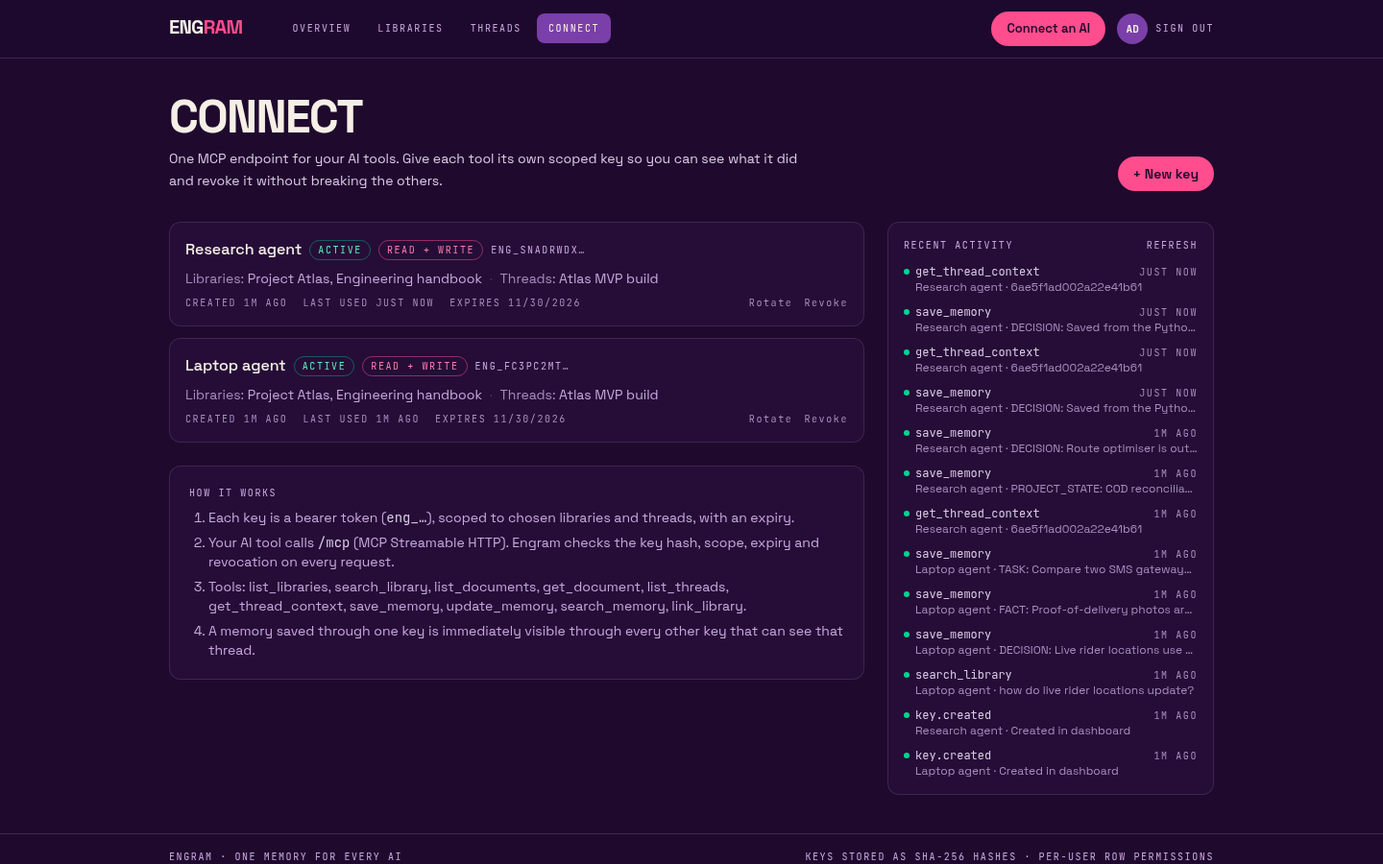
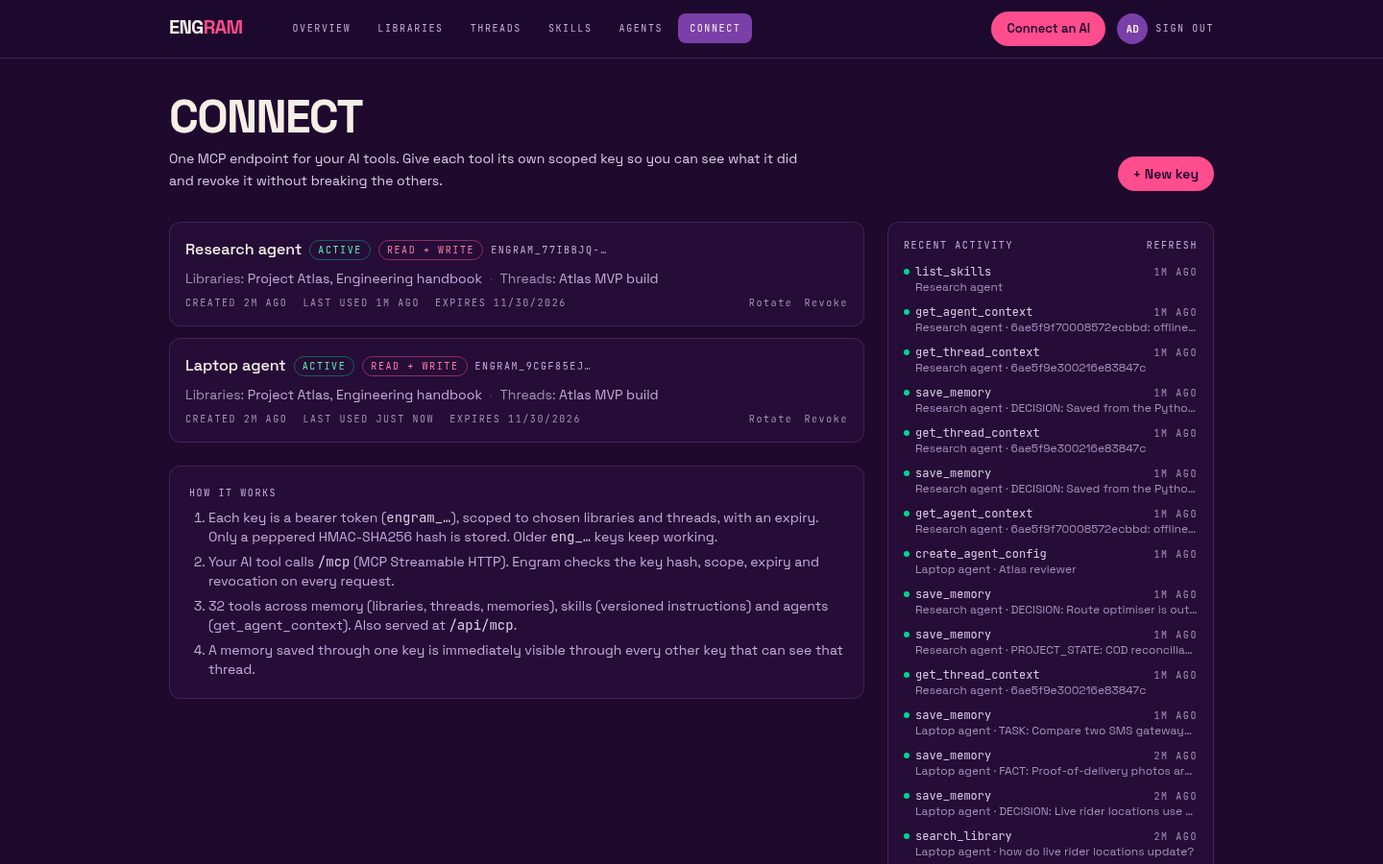
Docs + landing claims for skills/agents; fix wide preview layout; python client agent check; delete-user covers new tables

diff --git a/src/components/AuthScreen.tsx b/src/components/AuthScreen.tsx
@@ -8,9 +8,9 @@ const anchors: Record<string, string> = { Overview: "#top", Libraries: "#feature
 
 const CLIENTS = [
   { name: "Claude Code", ini: "CC", ver: "v2.1.316", what: "Remote HTTP server added with a bearer header. mcp list reports Connected." },
-  { name: "MCP Inspector", ini: "MI", ver: "CLI 2.13.0", what: "Listed tools, resources and prompts; called search_library on production." },
-  { name: "TypeScript SDK", ini: "TS", ver: "sdk 1.32.2", what: "All 10 tools, scopes, revocation and cross-user isolation. 71 checks." },
-  { name: "Python SDK", ini: "PY", ver: "mcp 1.30.0", what: "Initialize, save_memory, get_thread_context, resources and prompts." },
+  { name: "MCP Inspector", ini: "MI", ver: "CLI 2.13.0", what: "Listed tools and called get_agent_context on production." },
+  { name: "TypeScript SDK", ini: "TS", ver: "sdk 1.32.2", what: "All 32 tools, skills, agents, scopes, read-only keys and cross-user isolation. 149 checks." },
+  { name: "Python SDK", ini: "PY", ver: "mcp 1.30.0", what: "save_memory, get_thread_context, list_skills and get_agent_context on real workspace data." },
 ];
 
 const ROWS = [

diff --git a/src/components/views/Skill.tsx b/src/components/views/Skill.tsx
@@ -49,7 +49,7 @@ function SkillEditor({ id, s, flash, onSkill }: { id: string; s: Skill; flash: s
           action={<><Btn variant={s.status === "published" ? "outline" : "primary"} disabled={!!busy} onClick={toggle}>{s.status === "published" ? "Unpublish" : "Publish"}</Btn><Btn variant="outline" onClick={duplicate}>Duplicate</Btn><Btn variant="danger" onClick={remove}>Delete</Btn></>} />
       </div>
       <div className="grid gap-6 lg:grid-cols-[1fr_320px]">
-        <Card className="p-5">
+        <Card className="min-w-0 p-5">
           <Field label="Name"><input className="input" value={form.name} onChange={(e) => setForm({ ...form, name: e.target.value })} /></Field>
           <div className="grid gap-x-4 md:grid-cols-2">
             <Field label="Description"><input className="input" value={form.description} onChange={(e) => setForm({ ...form, description: e.target.value })} /></Field>

diff --git a/src/components/views/Agent.tsx b/src/components/views/Agent.tsx
@@ -65,7 +65,7 @@ function AgentEditor({ a, flash, onAgent }: { a: Full; flash: string; onAgent: (
           action={<><Btn variant="outline" disabled={busy} onClick={toggle}>{a.status === "active" ? "Deactivate" : "Activate"}</Btn><Btn variant="danger" onClick={remove}>Delete</Btn></>} />
       </div>
       <div className="grid gap-6 lg:grid-cols-[1fr_340px]">
-        <div className="space-y-6">
+        <div className="min-w-0 space-y-6">
           <Card className="p-5">
             <Field label="Name"><input className="input" value={name} onChange={(e) => setName(e.target.value)} /></Field>
             <div className="grid gap-x-4 md:grid-cols-2">

diff --git a/scripts/mcp-python-client.py b/scripts/mcp-python-client.py
@@ -1,6 +1,6 @@
 # Second, independent MCP client (official Python SDK) used to verify Engram.
 # Usage: TOKEN=eng_... THREAD=<threadId> MCP_URL=https://.../mcp python3 scripts/mcp-python-client.py
-import asyncio, os
+import asyncio, json, os
 from mcp import ClientSession
 from mcp.client.streamable_http import streamablehttp_client
 URL = os.environ.get("MCP_URL", "https://engram-ai.appwrite.network/mcp")
@@ -16,4 +16,9 @@ async def main():
             print("decision visible:", "Python MCP SDK" in ctx.content[0].text)
             rr = await s.read_resource("engram://workspace"); print("resource ok", os.environ.get("LIB_NAME", "Project Atlas") in rr.contents[0].text)
             p = await s.get_prompt("load_project_context", {"threadId": os.environ["THREAD"]}); print("prompt ok", os.environ["THREAD"] in p.messages[0].content.text)
+            if os.environ.get("AGENT"):
+                ac = json.loads((await s.call_tool("get_agent_context", {"agentId": os.environ["AGENT"], "query": "offline status updates", "threadId": os.environ["THREAD"], "maxChars": 6000})).content[0].text)
+                print("agent context:", ac["agent"]["name"], "| skills", [k["name"] for k in ac["skills"]], "| passages", len(ac["citations"]), "| chars", ac["budget"]["usedChars"], "/", ac["budget"]["maxChars"])
+                sk = json.loads((await s.call_tool("list_skills", {"status": "published"})).content[0].text)
+                print("published skills:", [k["name"] for k in sk["skills"]])
 asyncio.run(main())

diff --git a/README.md b/README.md
@@ -1,8 +1,10 @@
-# Engram: one memory for every AI
+# Engram: your AI subscription, supercharged
 
-Engram is a memory layer that you own, built on **Appwrite**. You keep your documents, project decisions and working context in one
-place. Any MCP client you connect, such as Claude Code, MCP Inspector or your own agent, can search that context and add to it
-through **one password-protected MCP endpoint**.
+**Less repetition. More productivity. One memory. Every skill. Every AI.**
+
+Engram is a memory layer that you own, built on **Appwrite**. You keep your documents, project decisions, reusable **skills**
+and saved **agent** setups in one place. Any MCP client you connect, such as Claude Code, MCP Inspector or your own agent, can
+read that context and add to it through **one key-protected MCP endpoint**.
 
 **Live (Appwrite Sites):** https://engram-ai.appwrite.network · **MCP endpoint:** `https://engram-ai.appwrite.network/mcp`
 
@@ -26,21 +28,24 @@ own key sees it right away through `get_thread_context`.
 | **Library** | A collection of documents (PDF, Markdown, TXT, pasted text). Each document is split into chunks of about 900 characters and embedded. |
 | **Thread** | Long-running context for a project or task: instructions, a summary, linked libraries and typed **memories**. |
 | **Memory** | A typed entry: `FACT`, `DECISION`, `PREFERENCE`, `PROJECT_STATE`, `TASK`, `INSTRUCTION`, `SUMMARY` or `DOCUMENT_REFERENCE`. |
-| **Key** | An MCP bearer token (`eng_…`) scoped to chosen libraries and threads. It is read-only or read and write, can expire and can be revoked. |
+| **Skill** | A reusable instruction pack (e.g. a code-review checklist). Draft or published, with full version history and restore. Only published skills reach agents. |
+| **Agent** | A saved setup: identity, purpose, instructions, response style, constraints, assigned skills and the libraries it may read. `get_agent_context` hands it to any AI. |
+| **Key** | An MCP bearer token (`engram_…`) scoped to chosen libraries and threads. It is read-only or read and write, can expire and can be revoked. Older `eng_…` keys still work. |
 
 ## Architecture
 
 ```
  MCP clients (Claude Code, Inspector, SDKs, …)       Browser dashboard
-            │  POST /mcp  (Bearer eng_…)                  │ httpOnly Appwrite session cookie
+            │  POST /mcp or /api/mcp (Bearer engram_…)    │ httpOnly Appwrite session cookie
             ▼                                             ▼
  ┌──────────────────────── Next.js 16 on Appwrite Sites ────────────────────────┐
  │  /mcp  stateless Streamable HTTP (MCP TS SDK 1.32)    /api/*  route handlers │
- │   └ key auth → scope check → tool → activity log       └ requireUser()       │
- │                 lib/: libraries · threads · keys · vector-store (interface)  │
+ │   └ Origin check → key auth → scope → tool → log       └ requireUser()       │
+ │   lib/: libraries · threads · skills · agents · agent-context · keys         │
+ │   core/stores.ts (interfaces) ← infrastructure/appwrite-tables.ts (adapter)  │
  └───────────────────────────────┬──────────────────────────────────────────────┘
                                  │ node-appwrite (server API key, server-side only)
-   Appwrite Cloud:  Auth · TablesDB (1 database, 7 tables) · Storage (1 bucket) · Embeddings (nomic-embed-text, 768-d)
+   Appwrite Cloud:  Auth · TablesDB (1 database, 12 tables) · Storage (1 bucket) · Embeddings (nomic-embed-text, 768-d)
 ```
 
 **TablesDB tables** (all in database `notemind`; `scripts/setup-appwrite.mjs` creates them and is safe to run more than once):
@@ -52,11 +57,22 @@ own key sees it right away through `get_thread_context`.
 | `chunks` | userId, libraryId, documentId, index, text, **embedding (longtext JSON, 768 floats)**, model | libraryId, documentId, userId |
 | `threads` | userId, title, description, instructions, summary, libraryIds[] | userId+$updatedAt |
 | `memories` | userId, threadId, type, content, tags[], embedding, source (key name), keyId | threadId+$createdAt, userId |
-| `keys` | userId, name, **tokenHash (SHA-256, unique)**, prefix, allLibraries, libraryIds[], allThreads, threadIds[], canWrite, expiresAt, revokedAt, lastUsedAt | tokenHash (unique), userId |
+| `keys` | userId, name, **tokenHash (unique)**, hashVersion (`hmac-sha256-v2`, or empty for legacy SHA-256), prefix, allLibraries, libraryIds[], allThreads, threadIds[], canWrite, expiresAt, revokedAt, lastUsedAt | tokenHash (unique), userId |
 | `activity` | userId, keyId, keyName, action, detail, status (`ok/denied/error`) | userId+$createdAt, keyId |
+| `skills` | userId, name, description, category, tags[], status (`draft/published`), currentVersion, instructions (mediumtext), compatibility | userId+$updatedAt, userId+status |
+| `skill_versions` | userId, skillId, version, name, description, instructions, changeSummary | skillId+version, userId |
+| `agents` | userId, name, description, identity, purpose, systemInstructions, responseStyle, constraints, preferredClient, status (`active/inactive`), version | userId+$updatedAt, userId+status |
+| `agent_skills` | userId, agentId, skillId, pinnedVersion (empty = current published) | agentId, skillId, **unique(agentId, skillId)** |
+| `agent_libraries` | userId, agentId, libraryId, access | agentId, libraryId, **unique(agentId, libraryId)** |
 
 Original files are stored in the Storage bucket `documents` with owner-only file permissions. Deleting a document also deletes
-its chunks (bulk `deleteRows`) and its file. Deleting a library deletes all of its documents.
+its chunks (bulk `deleteRows`) and its file. Deleting a library deletes all of its documents and its agent assignments. Deleting
+a skill deletes its versions and agent assignments; deleting an agent deletes its assignments (the skills and libraries stay).
+Relationship tables hold plain ids rather than Appwrite relationship columns, so the schema stays portable.
+
+**Storage seam:** `src/core/stores.ts` declares `LibraryStore`, `ThreadStore`, `SkillStore`, `AgentStore`, `KeyStore` and
+`VectorStore`. The only implementation is `src/infrastructure/appwrite-tables.ts`, a thin adapter over the domain functions in
+`src/lib`. Its capability note is honest: no native vector search, no full-text index, no transactions, no relationship columns.
 
 ### Retrieval
 
@@ -100,27 +116,54 @@ Embedding calls take about 0.5 s per chunk and fail on batches of 64 or more, so
 
 ## MCP server
 
-`POST /mcp`: Streamable HTTP, **stateless** (no `Mcp-Session-Id`; each request builds a fresh server), JSON responses.
-`GET`/`DELETE` return 405.
+`POST /mcp` (and the alias `POST /api/mcp`, the same handler): Streamable HTTP, **stateless** (no `Mcp-Session-Id`; each request
+builds a fresh server), JSON responses. `GET`/`DELETE` return 405.
 
-**Tools:** `list_libraries`, `search_library` (semantic + keyword, with citations), `list_documents`, `get_document` (paged),
-`list_threads`, `get_thread_context` (instructions, summary, linked libraries, memories grouped by type), `save_memory`,
-`update_memory`, `search_memory`, `link_library`. Every tool has a zod schema, a description and read-only/write annotations.
-**Resources:** `engram://workspace`, `engram://libraries`, `engram://threads/{id}`, `engram://documents/{id}`.
-**Prompts:** `load_project_context`, `research_library`, `resume_previous_work`.
+**32 tools.** Every tool has a zod schema, a description and read-only/write/destructive annotations. Write tools fail for read-only keys.
+- Memory: `get_workspace`, `list_libraries`, `create_library`, `search_library` (semantic + keyword, with citations), `list_documents`,
+  `get_document` (paged), `list_threads`, `start_thread`, `get_thread_context`, `save_memory`, `add_to_thread` (alias of save_memory),
+  `update_memory`, `search_memory`, `save_thread_summary`, `link_library`.
+- Skills: `list_skills`, `get_skill` (any version), `create_skill`, `update_skill`, `delete_skill`, `get_skill_versions`, `restore_skill_version`.
+- Agents: `list_agents`, `get_agent_config`, `create_agent_config`, `update_agent_config`, `delete_agent_config`, `assign_agent_skill`,
+  `remove_agent_skill`, `assign_agent_library`, `remove_agent_library`, `get_agent_context`.
+
+**Resources:** `engram://workspace`, `engram://libraries`, `engram://threads/{id}`, `engram://documents/{id}`, `engram://skills`,
+`engram://skills/{id}`, `engram://agents`, `engram://agents/{id}`.
+**Prompts:** `load_project_context`, `research_library`, `resume_previous_work`, `load_agent_context`, `apply_skill`.
+
+### get_agent_context
+
+`get_agent_context(agentId, query?, threadId?, maxChars = 12000)` builds one text block in priority order: a notice, the agent's
+identity, its instructions, its **published** skills (a pinned version is read from history), the thread's summary and recent
+memories, then library passages for `query`. Rules:
+- Libraries are the **intersection** of the agent's assignments and the calling key's scope. A library outside the key's scope
+  is never searched, and only a count of excluded libraries is returned, not their ids. A library not assigned to the agent is
+  never searched, even with an all-libraries key.
+- The thread must be in the key's scope.
+- The text never exceeds `maxChars` (1,000–60,000). Sections are cut, and the response says what was truncated.
+- Stored content (passages, memories) is wrapped in `<engram_data>` and labelled as reference data, not instructions.
+- Read-only keys can call it. It writes nothing.
 
 ### What was actually tested
 
-Production below means the Appwrite Sites deployment at https://engram-ai.appwrite.network (re-verified 31 Oct 2026:
-71/71 acceptance checks, Python SDK client, MCP Inspector CLI `tools/list`). The Claude Code row was verified against the
-earlier Vercel deployment of the same code.
+Production below means the Appwrite Sites deployment at https://engram-ai.appwrite.network, run on 31 Oct 2026 (PKT):
+
+- `scripts/acceptance.mjs`: **71/71** passed. Memory core: accounts, libraries, PDF indexing, search, threads, keys, MCP, cross-user isolation, revoke/rotate, cascade.
+- `scripts/acceptance-v2.mjs`: **78/78** passed. Covers:
+  - Skills CRUD, versions, restore, duplicate and persistence across sessions.
+  - Agent CRUD, relationships and cascades.
+  - `get_agent_context` scope intersection, budget and data marking.
+  - Read-only blocking on 13 write tools.
+  - Legacy `eng_` and new HMAC `engram_` keys.
+  - Origin validation, and `/mcp` and `/api/mcp` serving the same 32 tools.
+  - Cross-user isolation for skills and agents.
 
 | Client | Version | What was verified |
 | --- | --- | --- |
-| MCP TypeScript SDK client (`scripts/acceptance.mjs`) | `@modelcontextprotocol/sdk` 1.32.2 | All 10 tools, resources, prompts, scope, revocation, cross-user isolation. 71 checks, local and production |
-| MCP Python SDK client (`scripts/mcp-python-client.py`) | `mcp` 1.30.0 | initialize, tools/list, save_memory, get_thread_context, read_resource, get_prompt against production |
-| MCP Inspector CLI | `@modelcontextprotocol/inspector` 2.13.0 | tools/list, tools/call search_library, resources/list, prompts/list against production |
-| Claude Code | 2.1.316 | `claude mcp add --transport http … --header "Authorization: Bearer …"`; `claude mcp list` reports **✔ Connected** (handshake only; no model session was run) |
+| MCP TypeScript SDK client (`scripts/acceptance*.mjs`) | `@modelcontextprotocol/sdk` 1.32.2 | All 32 tools, resources, prompts, scopes, read-only keys, revocation, cross-user isolation. 71 + 78 checks, production |
+| MCP Python SDK client (`scripts/mcp-python-client.py`) | `mcp` 1.30.0 | tools/list (32), save_memory, get_thread_context, read_resource, get_prompt, list_skills, get_agent_context on the seeded demo workspace, production |
+| MCP Inspector CLI | `@modelcontextprotocol/inspector` 2.13.0 | tools/list on `/mcp` (32 tools); tools/call get_agent_context on `/api/mcp` against the demo workspace, production |
+| Claude Code | 2.1.316 | `claude mcp add --transport http … --header "Authorization: Bearer engram_…"`; `claude mcp list` reports **✔ Connected** against production. Handshake only: this box has no signed-in Claude session, so no tool call was made from Claude Code |
 | curl | n/a | Protocol negotiation, stateless `tools/list` with no initialize, 401/405/406 responses |
 
 Protocol negotiation: the server answers `2024-11-05`, `2025-03-26`, `2025-06-18` and `2025-11-25` with the same version.
@@ -133,18 +176,24 @@ doesn't implement OAuth, only bearer keys, so Inspector shows `auth_required` fo
 
 ```bash
 # Claude Code (tested)
-claude mcp add --transport http engram https://engram-ai.appwrite.network/mcp --header "Authorization: Bearer eng_…"
+claude mcp add --transport http engram https://engram-ai.appwrite.network/mcp --header "Authorization: Bearer engram_…"
 ```
 
 ```jsonc
 // Cursor ~/.cursor/mcp.json (format from Cursor docs, untested)
-{ "mcpServers": { "engram": { "url": "https://engram-ai.appwrite.network/mcp", "headers": { "Authorization": "Bearer eng_…" } } } }
+{ "mcpServers": { "engram": { "url": "https://engram-ai.appwrite.network/mcp", "headers": { "Authorization": "Bearer engram_…" } } } }
 ```
 
 ## Security model
 
-- **Keys:** 192-bit random tokens (`eng_` + base64url). The full key is shown once. Only the **SHA-256 hash** is stored and
-  looked up through a unique index. The list API never returns the hash or the key.
+- **Keys:** 256-bit random tokens (`engram_` + base64url). The full key is shown once. Only an **HMAC-SHA256 hash keyed with a
+  server-only pepper** (`ENGRAM_KEY_PEPPER`, a Sites secret variable) is stored, marked `hashVersion: hmac-sha256-v2`, and looked
+  up through a unique index. A leaked database dump alone can't be used to check guesses. Older `eng_` keys (plain SHA-256,
+  192-bit) keep working; the prefix decides which hash is looked up, so nothing was invalidated. The list API never returns
+  the hash or the key.
+- **Origin validation:** if a request to `/mcp` or `/api/mcp` carries an `Origin` header, it must be the site's own origin
+  (`NEXT_PUBLIC_APP_URL`) or listed in `ENGRAM_ALLOWED_ORIGINS`, otherwise the server answers 403. Requests without `Origin`
+  (CLIs, SDKs, desktop clients) are allowed, and bearer auth still applies. The `Host` header isn't trusted for this.
 - **Every MCP request** checks the key's hash, then that it hasn't been revoked or expired, then the rate limit (60/min per key,
   per server instance), and then the scope for each tool. Calls outside the key's scope fail with a tool error and are logged
   as `denied`. Read-only keys can't write.
@@ -154,6 +203,8 @@ claude mcp add --transport http engram https://engram-ai.appwrite.network/mcp --
   document's libraryId. `update_memory` goes from the memory to its thread, then checks ownership and scope. `link_library`
   checks both rows. Lists of IDs (thread libraryIds, key scopes, search libraryIds) are filtered to the caller's own rows
   before they are stored or used.
+  Skills, versions, agents and both assignment tables follow the same rule: assigning a skill or library to an agent checks that
+  both rows belong to the caller, and the MCP `assign_agent_library` tool also requires the library to be inside the key's scope.
   Rows and files also carry owner-only Appwrite permissions (`read/update/delete: user:<id>`) as a second layer.
 - **Rotate** revokes the old key and issues a new key with the same scope. Activity (tool, key, outcome) is logged per key and
   shown in the dashboard. `lastUsedAt` is updated on each use.
@@ -169,14 +220,16 @@ npm install
 cp .env.example .env.local            # fill in the project id + server API key
 node --env-file=.env.local scripts/setup-appwrite.mjs   # creates the tables, indexes and bucket (safe to re-run)
 npm run dev
-BASE=http://localhost:3000 node --env-file=.env.local scripts/acceptance.mjs   # 71 end-to-end checks
+BASE=http://localhost:3000 node --env-file=.env.local scripts/acceptance.mjs     # 71 checks: memory core
+BASE=http://localhost:3000 node --env-file=.env.local scripts/acceptance-v2.mjs  # 78 checks: skills, agents, keys, Origin
 BASE=http://localhost:3000 node scripts/seed-demo.mjs                          # demo workspace → DEMO_ACCOUNT.txt
 ```
 
 Deploy: **Appwrite Sites**, connected to this repo's `main` branch, so every push builds and activates a deployment.
 Site settings: framework `nextjs`, adapter `ssr`, build runtime `node-24`, install `npm install`, build `npm run build`,
 output `./.next`, request timeout 60 s (the Sites maximum). Site variables: `NEXT_PUBLIC_APPWRITE_ENDPOINT`,
-`NEXT_PUBLIC_APPWRITE_PROJECT_ID`, `APPWRITE_DATABASE_ID`, `APPWRITE_BUCKET_ID` and `APPWRITE_API_KEY` (marked secret).
+`NEXT_PUBLIC_APPWRITE_PROJECT_ID`, `NEXT_PUBLIC_APP_URL`, `APPWRITE_DATABASE_ID`, `APPWRITE_BUCKET_ID`, plus `APPWRITE_API_KEY` and
+`ENGRAM_KEY_PEPPER` (both marked secret). Optional: `ENGRAM_ALLOWED_ORIGINS`.
 Project: `6ae5ea70000968dca787` in Frankfurt (`https://fra.cloud.appwrite.io/v1`).
 
 ## Screenshots
@@ -186,7 +239,9 @@ Project: `6ae5ea70000968dca787` in Frankfurt (`https://fra.cloud.appwrite.io/v1`
 | ![Landing](docs/screenshots/01-landing.png) | ![Overview](docs/screenshots/02-overview.png) |
 | ![Libraries](docs/screenshots/03-libraries.png) | ![Semantic search with citations](docs/screenshots/04-library-search.png) |
 | ![Thread with memories saved through two MCP keys](docs/screenshots/05-thread.png) | ![Connect](docs/screenshots/06-connect.png) |
-| ![Key created + live connection test](docs/screenshots/07-connect-key-test.png) | ![Full landing page](docs/screenshots/01b-landing-full.png) |
+| ![Key created + live connection test](docs/screenshots/07-connect-key-test.png) | ![Skills](docs/screenshots/11-skills.png) |
+| ![Skill with version history](docs/screenshots/12-skill-versions.png) | ![Agents](docs/screenshots/13-agents.png) |
+| ![Agent with get_agent_context preview](docs/screenshots/14-agent-context.png) | ![Full landing page](docs/screenshots/01b-landing-full.png) |
 
 Mobile (390 px): [landing](docs/screenshots/10-mobile-landing.png) · [overview](docs/screenshots/09-mobile-overview.png) · [thread](docs/screenshots/08-mobile-thread.png)
 
@@ -200,6 +255,9 @@ JetBrains Mono labels via `next/font`. Single column under 900 px.
 - Documents are indexed inside the upload request, which Appwrite Sites caps at 60 s. There is no background queue. Each document is
   limited to 10 MB and 400 chunks.
 - The rate limit is held in memory, per serverless instance. It isn't global.
+- `ENGRAM_KEY_PEPPER` must be kept. If it is lost or changed, every `engram_` key stops working (legacy `eng_` keys don't depend on it).
+- Agent configs keep a version counter, not a full history (skills do have full history). There is no export/import yet.
+- Search is brute-force cosine in the app over every chunk in scope. That's fine at demo scale (thousands of chunks) and O(n) per query.
 - Bearer keys only. There is no OAuth flow, so hosted connectors that require OAuth (e.g. claude.ai custom connectors) can't use Engram directly.
 
 ## License

diff --git a/DEMO_SCRIPT.md b/DEMO_SCRIPT.md
@@ -1,41 +1,53 @@
 # Engram: 2-minute demo script
 
-**Title:** One memory. Two AI tools. Zero context loss.
+**Title:** Your AI subscription, supercharged. One memory. Every skill. Every AI.
 
-Before recording, run `scripts/seed-demo.mjs` against production (or use the account in `DEMO_ACCOUNT.txt`), and keep two
-terminals ready, each with a different key from that file. Engram has been tested with Claude Code, MCP Inspector and the
-TypeScript and Python MCP SDKs, so use two of those.
+**Setup before recording**
+- Seed the demo: `BASE=https://engram-ai.appwrite.network DEMO_EMAIL=demo@engram-demo.app node scripts/seed-demo.mjs`.
+  It writes `DEMO_ACCOUNT.txt` (gitignored) with the login, two keys, the thread id and the agent id.
+- **Client 1, Claude Code** (signed in), with key A:
+  `claude mcp add --transport http engram https://engram-ai.appwrite.network/mcp --header "Authorization: Bearer <key A>"`.
+  Check with `claude mcp list`, which should show ✔ Connected.
+- **Client 2, the Python MCP SDK client**, with key B:
+  `TOKEN=<key B> THREAD=<thread id> AGENT=<agent id> python3 scripts/mcp-python-client.py`.
+  Note: that script also saves one test DECISION to the thread.
 
 **0:00–0:15 · Problem** (landing page)
-"Every AI tool forgets. What you decided with one assistant is gone when you open another. Engram is one memory layer you own,
-built on Appwrite, that any MCP client you connect can read and write."
+"Every AI tool forgets. You re-explain your project, your rules and your style in every chat. Engram is one memory you own,
+built on Appwrite, that every MCP client you connect reads and writes. Less repetition, more productivity."
 
-**0:15–0:40 · Libraries** (Libraries → Project Atlas)
-Drop the Atlas architecture PDF. "It goes to Appwrite Storage. The text is chunked, embedded with Appwrite Embeddings, and
-stored in TablesDB." Search *"what happens when riders lose network?"* and point at the cited passage.
+**0:15–0:35 · Memory** (Libraries → Project Atlas, then Threads → Atlas MVP build)
+Search *"what happens when riders lose network?"* and point at the cited passage. On the thread: "Decisions, facts and tasks,
+written by two different keys: *via Laptop agent*, *via Research agent*."
 
-**0:40–1:00 · Threads** (Threads → Atlas MVP build)
-"A thread holds a project's instructions, summary and typed memories: decisions, facts, tasks. Note the badges: *via Laptop agent*,
-*via Research agent*. Two different keys wrote these over MCP." (The seed script wrote them. Say "keys", not specific apps.)
+**0:35–0:55 · Skills** (Skills → Atlas code review)
+"A skill is a reusable instruction pack. This one is published at v2. Here's the history, and I can restore v1." Point at
+the draft skill: "Drafts never reach an agent."
 
-**1:00–1:35 · Two tools, one memory** (terminals)
-Tool A (Claude Code with key 1): *"Search my Atlas library for the SMS gateway question and save a DECISION: use gateway X, batch hourly."*
-(This needs a signed-in Claude Code session. Without one, run `save_memory` through MCP Inspector CLI.)
-Tool B (Inspector or the Python client with key 2): `get_thread_context` shows the new DECISION, saved through a different key.
-Refresh the thread page in the dashboard, where it appears live.
+**0:55–1:15 · Agent config** (Agents → Atlas reviewer)
+"An agent bundles identity, instructions, skills and the libraries it may read." Type *review the offline status updates* and
+click **Preview**: "This is exactly what an AI receives: the published skill, the thread summary, cited passages, inside a size
+budget. Stored content is marked as data, not instructions."
 
-**1:35–1:55 · Control** (Connect)
-"Each tool gets its own key, scoped to specific libraries and threads, with an expiry. Only the SHA-256 hash is stored. The
-activity log shows every tool call." Revoke key 2, then run it again to show the 401.
+**1:15–1:45 · Two clients, one memory**
+- Claude Code: *"Load my Engram agent Atlas reviewer for the Atlas MVP build thread, then save a DECISION: use gateway X for SMS, batched hourly."*
+  It calls `get_agent_context`, then `save_memory`.
+- Python client (key B): run the script. It prints the agent context it received (same agent, same skills) and
+  `decision visible: True`. Refresh the thread page: the new DECISION shows *via Laptop agent*.
+
+**1:45–1:55 · Control** (Connect)
+"Each tool has its own key, scoped to libraries and threads, read-only or read-write, with an expiry. Only a peppered HMAC hash is
+stored, browser Origins are checked, and every tool call is logged." Revoke key B, run the Python client again: 401.
 
 **1:55–2:00 · Close**
-"Engram: one memory for every AI. Built on Appwrite Auth, TablesDB, Storage and Embeddings."
+"Engram: one memory, every skill, every AI. Built on Appwrite Auth, TablesDB, Storage, Embeddings and Sites."
 
 ---
 
 **Submission blurb:**
-Engram is a portable memory layer for AI tools, built on Appwrite. Libraries hold your documents, which are chunked and
-embedded with Appwrite Embeddings and stored in TablesDB. Threads hold typed project memories such as decisions, facts and
-tasks. One stateless MCP endpoint, protected by scoped and revocable bearer keys, lets each AI client search your context and
-save to it, so a decision made in one tool is available in the next. It is built on Appwrite Auth, TablesDB (7 tables,
-owner-only rows), Storage and Embeddings, and the vector store sits behind an interface so VectorsDB can replace it on a paid plan.
+Engram is a memory layer for the AI tools you already pay for, built on Appwrite. Libraries hold your documents, chunked and
+embedded with Appwrite Embeddings and stored in TablesDB. Threads hold typed project memories. Skills are versioned instruction packs,
+and Agents bundle identity, instructions, skills and allowed libraries. One stateless MCP endpoint exposes 32 tools, including
+`get_agent_context`, which composes an agent's full setup within a character budget and never goes beyond the calling key's scope.
+It is protected by scoped, revocable, HMAC-hashed bearer keys. Built on Appwrite Auth, TablesDB (12 tables, owner-only rows),
+Storage, Embeddings and Sites.
